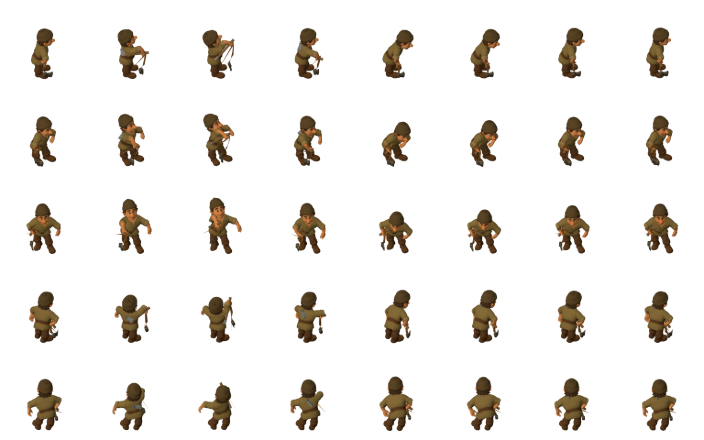
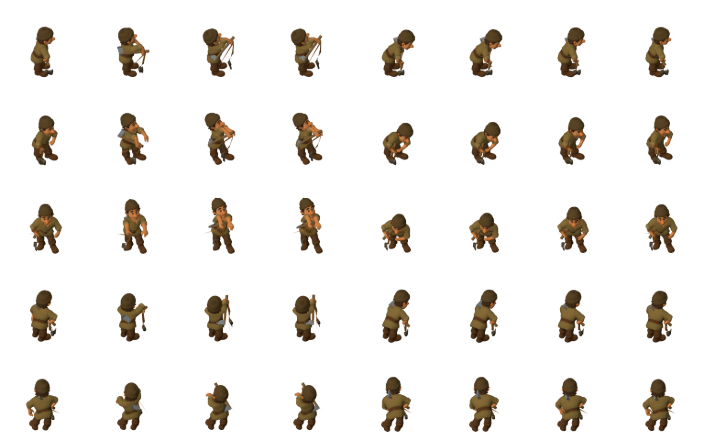
T14 Arbeitsstand: Kinematik-Agent ueberarbeitet den Axthieb des Holzfaellers
Zwischenstand waehrend der laufenden Posen-Arbeit (Subagent): posen.js
und unit_woodcutter_atk.png in Bearbeitung. Abschluss, Farb-Pass und
sw-Bump folgen im v234-Paket, sobald der Agent fertig ist.

Claude-Session: https://claude.ai/code/session_01NJiXwFpbq91ri9gPbhzERB

diff --git a/tools/posen.js b/tools/posen.js
@@ -116,32 +116,49 @@ const HAMMERN = [
           L_Upperarm:[14,0,6],   L_Forearm:[-20,0,0],
           Spine01:[-10,0,0], Head:[5,0,0] }],
 ];
-// AXT: beidarmig angedeuteter Diagonalhieb von schraeg oben (Holzfaeller).
-// Der Rumpf dreht leicht mit (Y), damit der Hieb Schwung hat.
+// AXT: ECHTER beidhaendiger Diagonalhieb (Holzfaeller). Die erste Fassung
+// (v233) las sich als "Decke ausschuetteln" (Spielerkritik): am Kontakt
+// standen die Arme nur 42 Grad vor - die Haende hingen optisch an der
+// Huefte, die Axt zeigte unlesbar zu Boden, und die linke Hand pendelte
+// unbeteiligt mit. Neu vermessen an der Vorschau:
+//   - Ausholen BEIDARMIG uebers rechte Schulterblatt (Rumpf dreht Y+24
+//     mit) - beide Faeuste bleiben am Stiel; der linke Arm ADDUZIERT dabei
+//     (Z-, numerisch vermessen: Z+ haette ihn seitlich weggespreizt, das
+//     war der "Winke-Arm" der Vorschau). Faustabstand in der Ausholpose
+//     per bonePos kalibriert: L[150,0,-34]+Forearm-80 ergibt |LR|=0.157
+//     (~Stielbreite), die erste Fassung lag bei 0.28 = lose Haende,
+//   - oben wird KURZ verharrt (Schluessel 2.4 und 3.2 fast identisch),
+//     dann faellt der Hieb in nur 0.8 Frames - das gibt ihm die Wucht,
+//   - Kontakt (Spalte 4): Arme weit vorn-unten gestreckt (66 Grad,
+//     Ellbogen fast lang), Rumpf klar vorgebeugt (-32), Knie federn,
+//   - kurzes Verharren "im Holz" (Spalte 5), dann zurueck zur Bereitschaft.
 const HACKEN_AXT = [
-  [0,   { R_Upperarm:[40,0,-8],  R_Forearm:[-50,0,0],
-          L_Upperarm:[28,0,10],  L_Forearm:[-44,0,0],
-          Spine01:[-6,4,0], Head:[4,0,0] }],
-  [1,   { R_Upperarm:[112,0,-14],R_Forearm:[-70,0,0],
-          L_Upperarm:[45,0,14],  L_Forearm:[-60,0,0],
-          Spine01:[8,10,0], Spine02:[3,4,0], Head:[8,-4,0] }],
-  [2,   { R_Upperarm:[148,0,-18],R_Forearm:[-78,0,0],
-          L_Upperarm:[58,0,16],  L_Forearm:[-68,0,0],
-          Spine01:[14,14,0], Spine02:[5,6,0], Head:[10,-6,0],
-          R_Thigh:[2,0,0], L_Thigh:[2,0,0] }],
-  [3,   { R_Upperarm:[92,0,-10], R_Forearm:[-42,0,0],
-          L_Upperarm:[44,0,12],  L_Forearm:[-40,0,0],
-          Spine01:[-6,4,0], Head:[6,0,0] }],
-  [4,   { R_Upperarm:[42,0,-6],  R_Forearm:[-8,0,0],                 // KONTAKT
-          L_Upperarm:[26,0,8],   L_Forearm:[-16,0,0],
-          Spine01:[-26,-8,0], Spine02:[-10,-3,0], Head:[14,4,0],
-          R_Thigh:[-5,0,0], R_Calf:[7,0,0], L_Thigh:[-4,0,0], L_Calf:[6,0,0] }],
-  [5,   { R_Upperarm:[46,0,-6],  R_Forearm:[-14,0,0],
-          L_Upperarm:[26,0,8],   L_Forearm:[-18,0,0],
-          Spine01:[-22,-6,0], Spine02:[-8,-2,0], Head:[12,3,0] }],
-  [6.5, { R_Upperarm:[44,0,-7],  R_Forearm:[-42,0,0],
-          L_Upperarm:[27,0,9],   L_Forearm:[-38,0,0],
-          Spine01:[-10,0,0], Head:[6,0,0] }],
+  [0,   { R_Upperarm:[48,0,-6],  R_Forearm:[-42,0,0],                // Bereitschaft
+          L_Upperarm:[40,0,-8],  L_Forearm:[-50,0,0],
+          Spine01:[-8,6,0], Head:[5,-2,0] }],
+  [1.3, { R_Upperarm:[120,0,-12],R_Forearm:[-82,0,0],                // Axt steigt
+          L_Upperarm:[112,0,-26],L_Forearm:[-78,0,0],
+          Spine01:[10,16,0], Spine02:[4,7,0], Head:[6,-8,0],
+          R_Thigh:[3,0,0], L_Thigh:[3,0,0] }],
+  [2.4, { R_Upperarm:[160,0,-14],R_Forearm:[-96,0,0],                // volles Ausholen
+          L_Upperarm:[150,0,-34],L_Forearm:[-80,0,0],
+          Spine01:[17,24,0], Spine02:[7,10,0], Head:[8,-10,0],
+          R_Thigh:[4,0,0], L_Thigh:[4,0,0] }],
+  [3.2, { R_Upperarm:[150,0,-13],R_Forearm:[-90,0,0],                // Verharren oben
+          L_Upperarm:[142,0,-32],L_Forearm:[-78,0,0],
+          Spine01:[14,22,0], Spine02:[6,9,0], Head:[8,-9,0],
+          R_Thigh:[4,0,0], L_Thigh:[4,0,0] }],
+  [4,   { R_Upperarm:[66,0,0],   R_Forearm:[-8,0,0],                 // KONTAKT
+          L_Upperarm:[60,0,-12], L_Forearm:[-14,0,0],
+          Spine01:[-32,-10,0], Spine02:[-12,-4,0], Head:[16,4,0],
+          R_Thigh:[-8,0,0], R_Calf:[10,0,0], L_Thigh:[-7,0,0], L_Calf:[9,0,0] }],
+  [5,   { R_Upperarm:[68,0,0],   R_Forearm:[-12,0,0],                // sitzt im Holz
+          L_Upperarm:[60,0,-12], L_Forearm:[-16,0,0],
+          Spine01:[-30,-8,0], Spine02:[-11,-3,0], Head:[15,3,0],
+          R_Thigh:[-7,0,0], R_Calf:[9,0,0], L_Thigh:[-6,0,0], L_Calf:[8,0,0] }],
+  [6.5, { R_Upperarm:[54,0,-6],  R_Forearm:[-32,0,0],                // loesen
+          L_Upperarm:[46,0,-10], L_Forearm:[-42,0,0],
+          Spine01:[-14,2,0], Head:[8,0,0] }],
 ];
 // SENSE: ruhiger Maehschwung - der Rumpf dreht von rechts nach links,
 // die Arme bleiben lang (Bauer). Kontakt = Mitte des Schwungs.
@@ -219,7 +236,9 @@ export const POSEN = {
   miner:      { atk: HACK,       werkzeug: IN_FAUST('pick',1.25) },
   quarry:     { atk: HACK,       werkzeug: IN_FAUST('pick',1.25) },
   builder:    { atk: HAMMERN,    werkzeug: IN_FAUST('hammer',1.7) },
-  woodcutter: { atk: HACKEN_AXT, werkzeug: IN_FAUST('axe',1.35) },
+  // Axt eine Stufe groesser (1.35 -> 1.5): auf Spielzoom war der Hieb sonst
+  // kaum als Axtschlag lesbar (Spielerkritik "Decke ausschuetteln")
+  woodcutter: { atk: HACKEN_AXT, werkzeug: IN_FAUST('axe',1.5) },
   // Sense: Blatt zum BODEN gedreht (die Faust-Grundlage hielte es nach oben)
   farm:       { atk: MAEHEN,     werkzeug: IN_FAUST('scythe',1.15,[-70,0,0]) },
   leveler:    { atk: SCHAUFELN,  werkzeug: IN_FAUST('shovel',1.25) },
